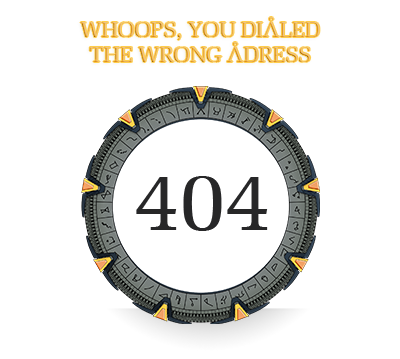
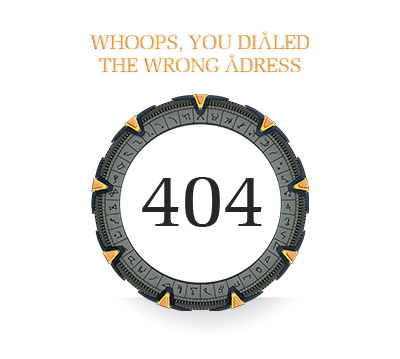
added auth based navigation change, included logout

Changed region(s): [[0.18, 0.0306, 0.81, 0.9192]]

diff --git a/src/app/nav/nav.component.html b/src/app/nav/nav.component.html
@@ -10,19 +10,20 @@
           <mat-icon>home</mat-icon>
           <span>Home</span>
         </a>
-        <a mat-menu-item routerLink="dashboard/transactions" routerLinkActive="active-link-item" [routerLinkActiveOptions]="{exact:true}">
-          <mat-icon>money</mat-icon>
-          <span>Transactions</span>
-        </a>
-        <a mat-menu-item routerLink="dashboard" routerLinkActive="active-link-item" [routerLinkActiveOptions]="{exact:true}">
+        <a *ngIf="authService.hasCredentials" mat-menu-item routerLink="dashboard" routerLinkActive="active-link-item" [routerLinkActiveOptions]="{exact:true}">
           <mat-icon>dashboard</mat-icon>
           <span>Dashboard</span>
         </a>
+        <a *ngIf="authService.hasCredentials" mat-menu-item routerLink="dashboard/transactions" routerLinkActive="active-link-item" [routerLinkActiveOptions]="{exact:true}">
+          <mat-icon>money</mat-icon>
+          <span>Transactions</span>
+        </a>
         <!-- Does this need to be different? I guess it's up for debate -->
-        <a mat-menu-item routerLink="welcome/register" routerLinkActive="active-link-item" [routerLinkActiveOptions]="{exact:true}">
+        <a *ngIf="!authService.hasCredentials" mat-menu-item routerLink="welcome/register" routerLinkActive="active-link-item" [routerLinkActiveOptions]="{exact:true}">
           <mat-icon>account_circle</mat-icon>
           <span>Register</span>
         </a>
+        <wed-logout *ngIf="authService.hasCredentials" [asItem]="true"></wed-logout>
       </mat-menu>
     </div>
     <span class="label">WED3 Testat Angular / Brunner - Dogan</span>
@@ -33,19 +34,20 @@
       <mat-icon>home</mat-icon>
       <span>Home</span>
     </a>
-    <a mat-button routerLink="dashboard/transactions" routerLinkActive="active-link" [routerLinkActiveOptions]="{exact:true}">
+    <a *ngIf="authService.hasCredentials" mat-button routerLink="dashboard" routerLinkActive="active-link" [routerLinkActiveOptions]="{exact:true}">
+      <mat-icon>dashboard</mat-icon>
+      <span>Dashboard</span>
+    </a>
+    <a *ngIf="authService.hasCredentials" mat-button routerLink="dashboard/transactions" routerLinkActive="active-link" [routerLinkActiveOptions]="{exact:true}">
       <mat-icon>money</mat-icon>
       <span>Transactions</span>
     </a>
     <span class="example-fill-remaining-space"></span>
-    <a mat-button routerLink="dashboard" routerLinkActive="active-link" [routerLinkActiveOptions]="{exact:true}">
-      <mat-icon>dashboard</mat-icon>
-      <span>Dashboard</span>
-    </a>
     <!-- Does this need to be different? I guess it's up for debate -->
-    <a mat-button routerLink="welcome/register" routerLinkActive="active-raised-link" [routerLinkActiveOptions]="{exact:true}">
+    <a *ngIf="!authService.hasCredentials" mat-button routerLink="welcome/register" routerLinkActive="active-raised-link" [routerLinkActiveOptions]="{exact:true}">
       <mat-icon>account_circle</mat-icon>
       <span>Register</span>
     </a>
+    <wed-logout *ngIf="authService.hasCredentials"></wed-logout>
   </div>
 </mat-toolbar>

diff --git a/src/app/auth/components/logout/logout.component.ts b/src/app/auth/components/logout/logout.component.ts
@@ -1,0 +1,43 @@
+import {Component, Input, OnInit} from '@angular/core';
+import {ActivatedRoute} from '@angular/router';
+
+import {AuthService} from '../../services';
+import {NavigationService} from '../../../core/services';
+// Be aware, we need to import this explicitly, or it will try to use the one from AuthService
+// which apparently has a slightly different makeup, as it doesn't match
+import {Account} from '../../models';
+
+
+@Component({
+  selector: 'wed-logout',
+  templateUrl: './logout.component.html',
+  styleUrls: ['./logout.component.scss']
+})
+export class LogoutComponent implements OnInit {
+
+  public user: Account;
+  // Can't use HostListener('click') due to restriction with HostBinding on Rendering
+  // if we set HostBinding('mat-button') matbutton:any = '', it will correctly add the
+  // attribute to the wed-logout component, like <wed-logout mat-button>..</wed-logout>
+  // but for some reason it doesn't render it as a directive, that's we use the
+  // asItem input solution, ie. the logout component can be "imported" as a button a menu item
+  // by setting the asItem value, per default its false, ie. will render it as a button
+  @Input() asItem = false;
+
+  constructor(private autSvc: AuthService, private navigationSvc: NavigationService, route: ActivatedRoute) {
+  }
+
+  ngOnInit() {
+    this.user = this.autSvc.authenticatedUser;
+    this.autSvc.authenticatedUserChange.subscribe(
+      (credentials) => {
+        if (!credentials) {
+          this.navigationSvc.goToHome();
+        }
+      });
+  }
+
+  public doLogout() {
+    this.autSvc.logout();
+  }
+}

diff --git a/src/app/auth/auth.module.ts b/src/app/auth/auth.module.ts
@@ -10,7 +10,10 @@ import {
   RegisterComponent
 } from './components';
 import {SharedModule} from '../shared/shared.module';
-import {MatButtonModule, MatCardModule, MatFormFieldModule, MatGridListModule, MatInputModule, MatToolbarModule} from '@angular/material';
+import {
+  MatButtonModule, MatCardModule, MatFormFieldModule, MatGridListModule, MatIconModule, MatInputModule, MatMenuModule,
+  MatToolbarModule
+} from '@angular/material';
 
 // CommonModule contains all the common directives etc. for Angualr, so... yes, it's kinda essential
 import {CommonModule} from '@angular/common';
@@ -18,11 +21,9 @@ import {RouterModule} from '@angular/router';
 
 const EXPORTED_DECLARATIONS = [
   LoginComponent, LogoutComponent, RegisterComponent
-  // TODO: Add declarations here, if additional components should be exported
 ];
 const INTERNAL_DECLARATIONS = [
   ...EXPORTED_DECLARATIONS
-  // TODO: Add declarations here, if additional components should be registered for the Auth module
 ];
 const EXPORTS = [
   ...EXPORTED_DECLARATIONS
@@ -41,6 +42,8 @@ const EXPORTS = [
     MatFormFieldModule,
     MatButtonModule,
     MatGridListModule,
+    MatIconModule,
+    MatMenuModule,
     RouterModule
   ],
   exports: EXPORTS,

diff --git a/src/app/app-routing.module.ts b/src/app/app-routing.module.ts
@@ -1,11 +1,13 @@
 import {NgModule} from '@angular/core';
 import {RouterModule, Routes} from '@angular/router';
+import {PageNotFoundComponent} from './shared/components/pagenotfound/pagenotfound.component';
 
 const appRoutes: Routes = [
   // TODO: Add routing of lazy loaded dashboard Module (with guards) here...
 
   // TODO: Add routing of eagerly loaded modules here...
   { path: '', redirectTo: '/welcome', pathMatch: 'full' },
+  { path: '**', component: PageNotFoundComponent }
 ];
 
 @NgModule({

diff --git a/src/app/auth/components/logout/logout.component.html b/src/app/auth/components/logout/logout.component.html
@@ -1,0 +1,10 @@
+<!--Render as a normal button-->
+<a *ngIf="!asItem" (click)="doLogout()" mat-button>
+  <mat-icon>exit_to_app</mat-icon>
+  <span>Logout {{user.firstname}} {{user.lastname}}</span>
+</a>
+<!--Render as a menu item-->
+<a *ngIf="asItem" (click)="doLogout()" mat-menu-item>
+  <mat-icon>exit_to_app</mat-icon>
+  <span>Logout {{user.firstname}} {{user.lastname}}</span>
+</a>

diff --git a/src/app/nav/nav.component.ts b/src/app/nav/nav.component.ts
@@ -1,4 +1,5 @@
 import { Component, OnInit } from '@angular/core';
+import {AuthService} from '../auth/services';
 
 @Component({
   selector: 'wed-nav',
@@ -7,7 +8,8 @@ import { Component, OnInit } from '@angular/core';
 })
 export class NavComponent implements OnInit {
 
-  constructor() { }
+  constructor(public authService: AuthService) {
+  }
 
   ngOnInit() {
   }

diff --git a/src/index.html b/src/index.html
@@ -2,7 +2,7 @@
 <html>
 <head>
   <meta charset="utf-8">
-  <title>WED 3 Angular / [Template] - Online Banking Solution</title>
+  <title>WED 3 Angular / Brunner & Dogan - Online Banking Solution</title>
   <base href="/">
 
   <meta name="viewport" content="width=device-width, initial-scale=1">

diff --git a/src/app/auth/components/index.ts b/src/app/auth/components/index.ts
@@ -1,4 +1,4 @@
-export * from './logout.component';
+export * from './logout/logout.component';
 export * from './register/register.component';
 export * from './login/login.component';
 
